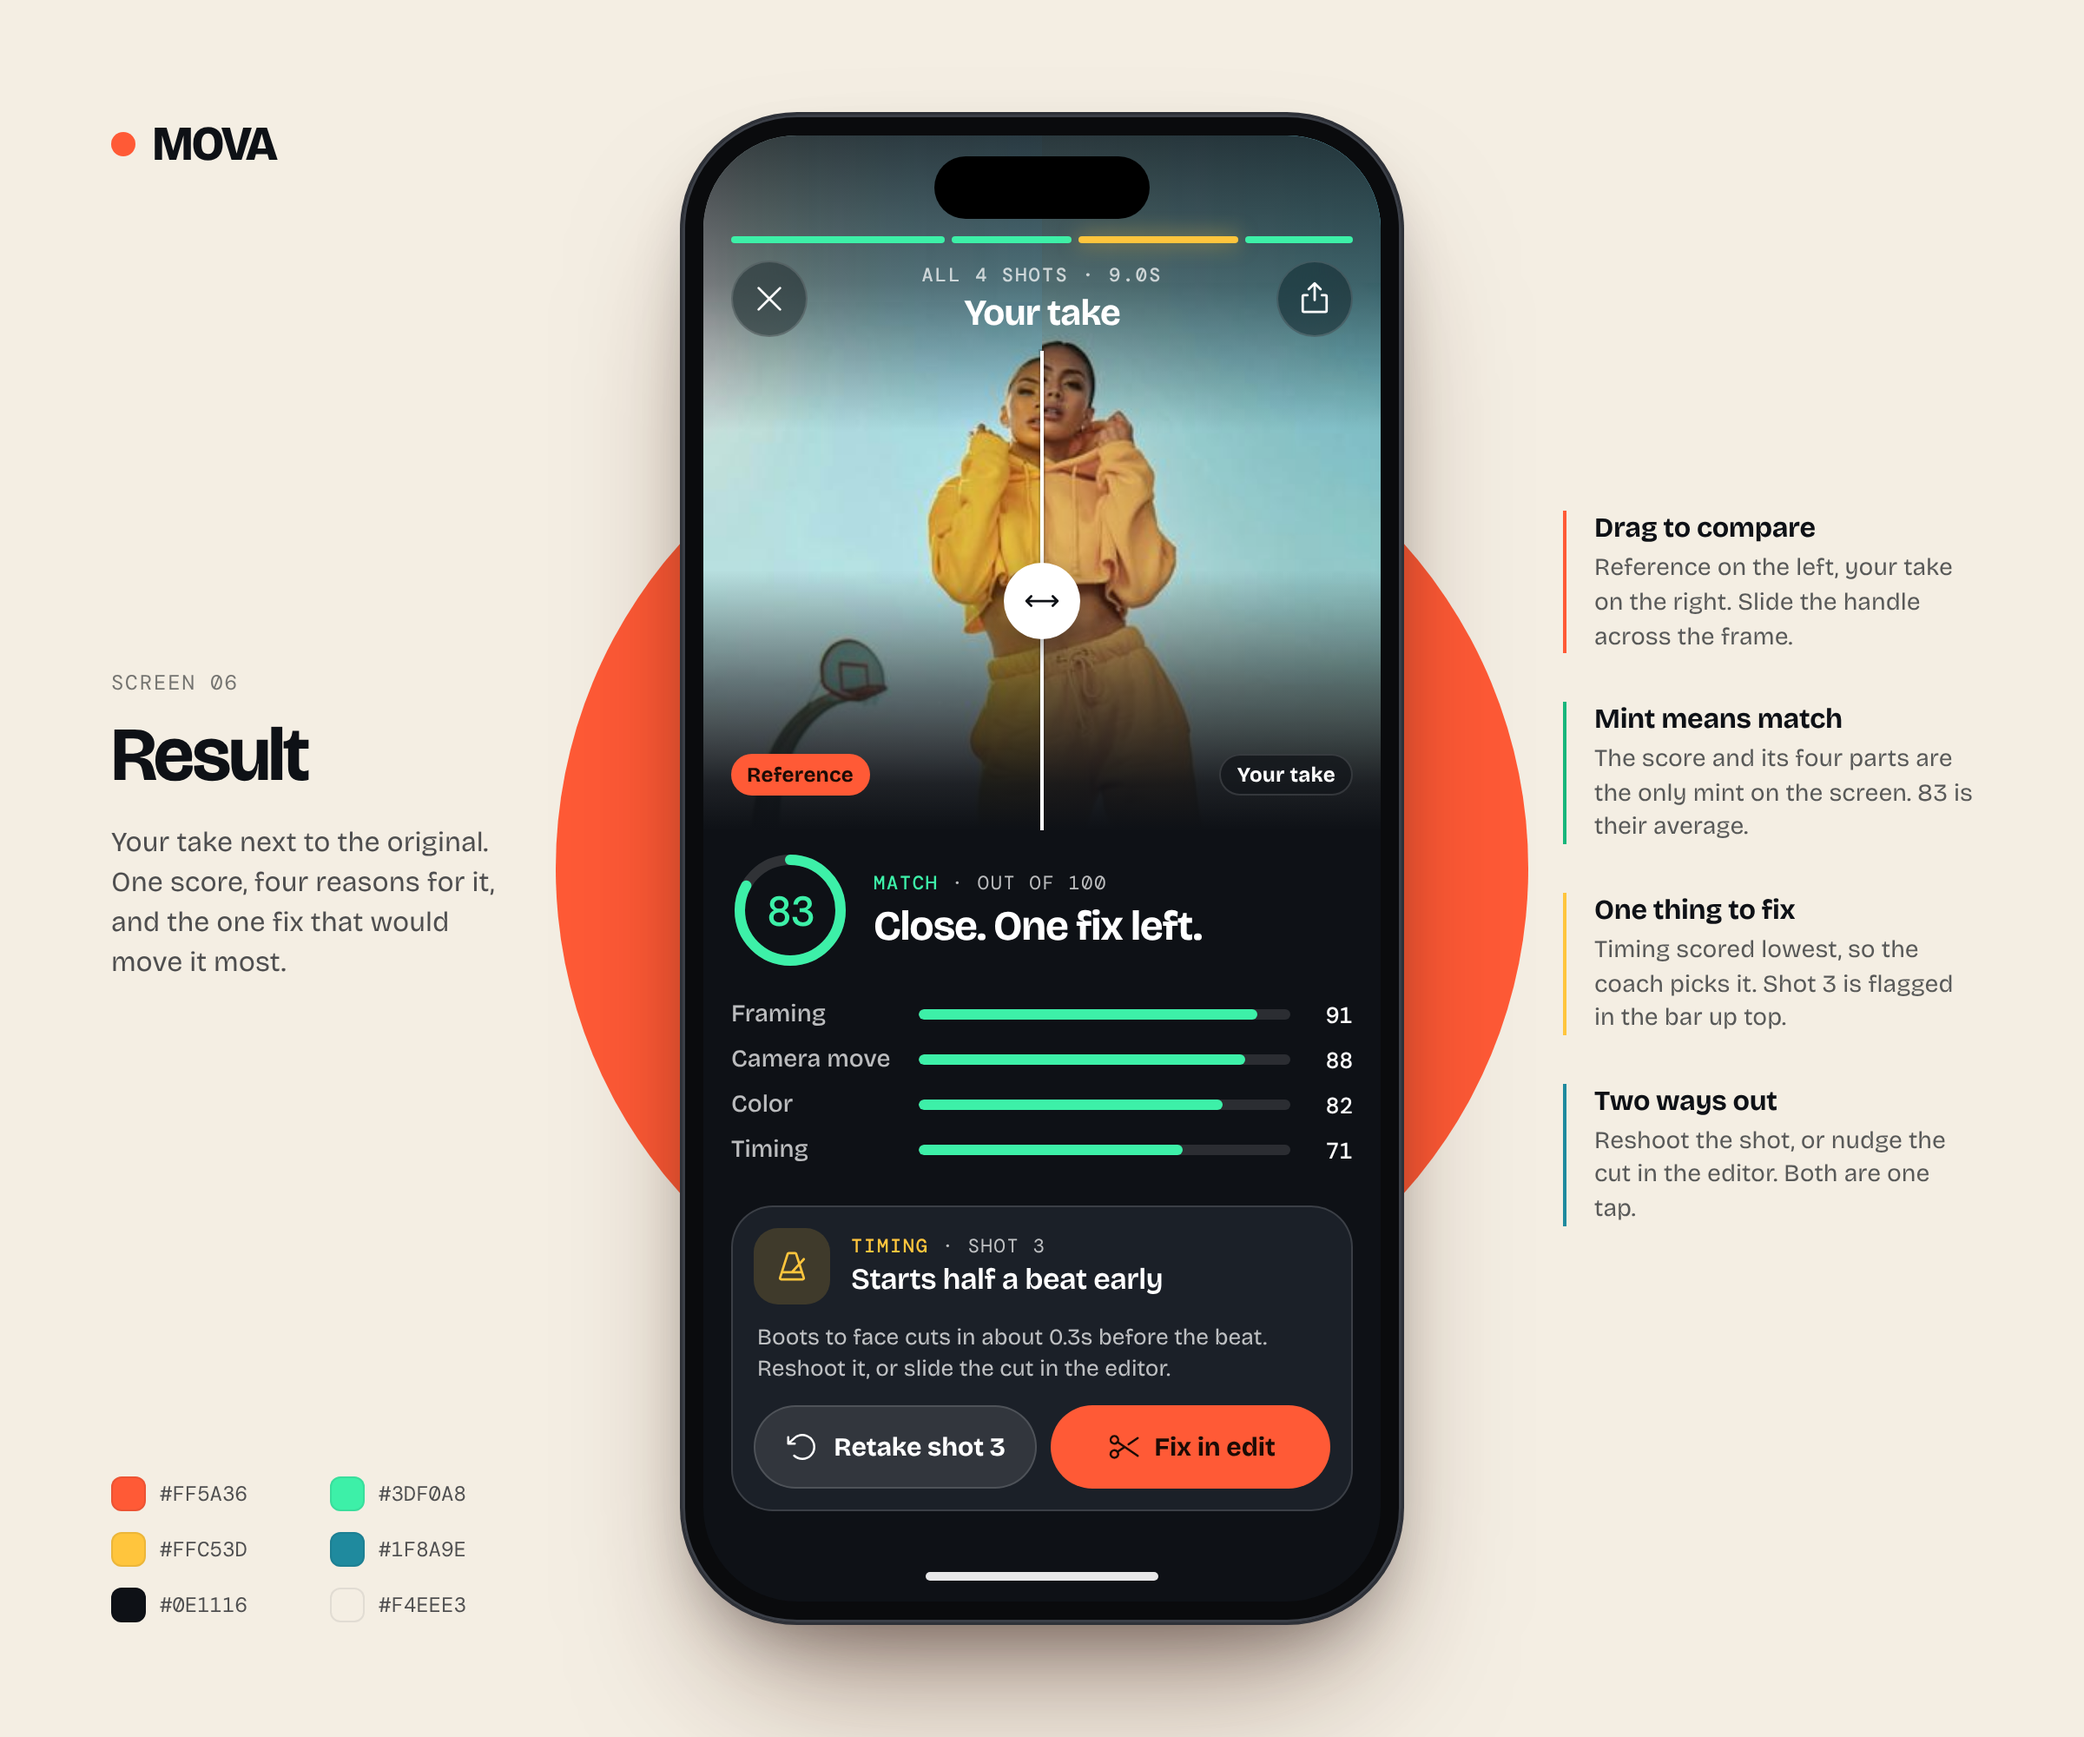
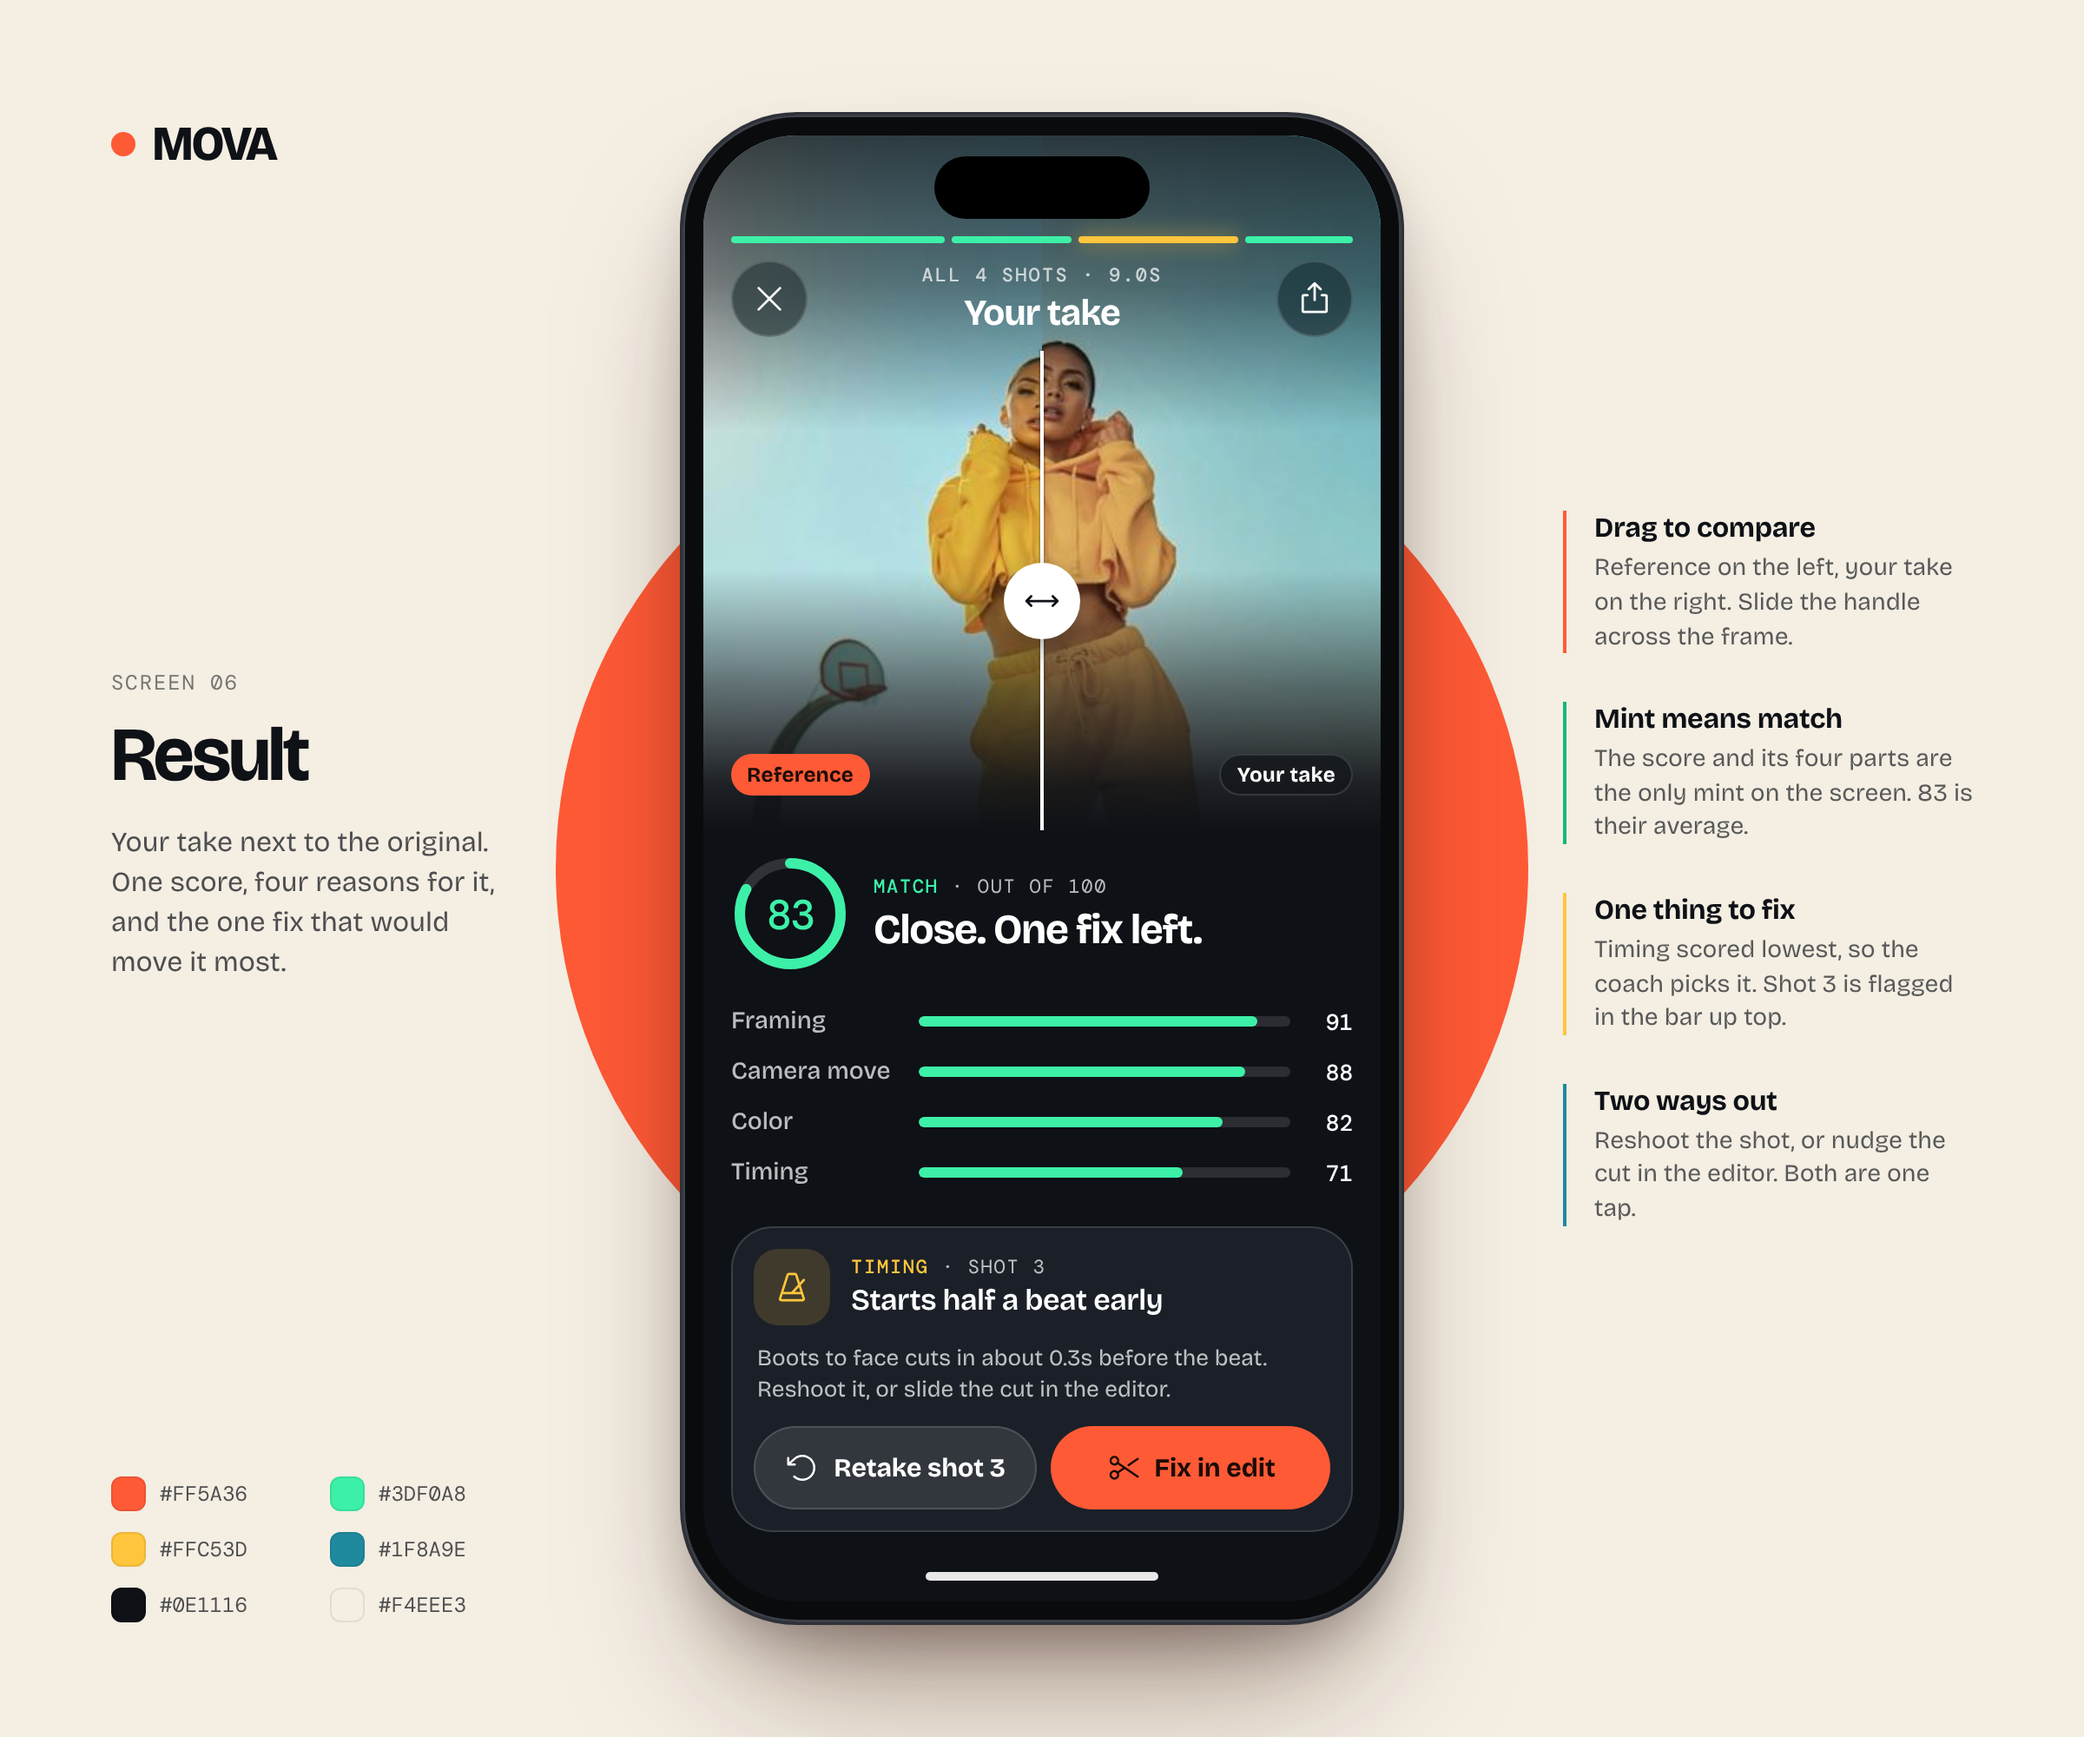
Finalize v5 screens 04-06 and add 9-screen overview
Claude-Session: https://claude.ai/code/session_01VAhaWfWrmtdu8QGFD6ELxJ

Changed region(s): [[0.3438, 0.496, 0.6562, 0.868]]

diff --git a/design/v5/screen-06-result.html b/design/v5/screen-06-result.html
@@ -85,20 +85,20 @@
   .knob svg{width:22px;height:22px;fill:var(--ink);display:block}
   .lab{position:absolute;top:356px;z-index:4}
   .lab.a{left:16px} .lab.b{right:16px}
-  .score{position:absolute;left:16px;right:16px;top:412px;height:68px;display:flex;align-items:center;gap:14px}
+  .score{position:absolute;left:16px;right:16px;top:414px;height:68px;display:flex;align-items:center;gap:14px}
   .ring{position:relative;width:68px;height:68px;flex:none}
   .ring svg{width:68px;height:68px;display:block;transform:rotate(-90deg)}
   .ring span{position:absolute;inset:0;display:grid;place-items:center;font-family:var(--mono);font-weight:500;font-size:24px;letter-spacing:-.04em;color:var(--mint)}
   .kv small{display:block;font-family:var(--mono);font-size:11px;letter-spacing:.08em;text-transform:uppercase;color:var(--w70);line-height:14px;white-space:nowrap}
   .kv small b{color:var(--mint);font-weight:500}
   .kv strong{display:block;font-size:24px;font-weight:700;letter-spacing:-.025em;line-height:28px;margin-top:4px;white-space:nowrap;font-variation-settings:"opsz" 48}
-  .subs{position:absolute;left:16px;right:16px;top:496px;display:flex;flex-direction:column;gap:6px}
+  .subs{position:absolute;left:16px;right:16px;top:500px;display:flex;flex-direction:column;gap:9px}
   .sub{height:20px;display:flex;align-items:center;gap:12px}
   .sub em{font-style:normal;width:96px;font-size:14px;font-weight:500;color:var(--w70);line-height:20px;flex:none}
   .sub div{flex:1;height:6px;border-radius:3px;background:rgba(255,255,255,.12);overflow:hidden}
   .sub div i{display:block;height:6px;border-radius:3px;background:var(--mint)}
   .sub span{width:24px;text-align:right;font-family:var(--mono);font-size:13px;font-weight:500;color:#fff;flex:none}
-  .coach{position:absolute;left:16px;right:16px;top:616px;border-radius:24px;background:var(--ink-2);border:1px solid var(--hair);padding:12px}
+  .coach{position:absolute;left:16px;right:16px;top:628px;border-radius:24px;background:var(--ink-2);border:1px solid var(--hair);padding:12px}
   .coach .top{display:flex;align-items:center;gap:12px}
   .tile{width:44px;height:44px;border-radius:14px;background:rgba(255,197,61,.16);display:grid;place-items:center;flex:none}
   .tile svg{width:22px;height:22px;fill:var(--sun)}

diff --git a/design/v5/screen-04-reference.html b/design/v5/screen-04-reference.html
@@ -127,10 +127,10 @@
 </div>
 
 <div class="col r">
-  <div class="note c"><h3>The clip comes first</h3><p>Half the screen is the reference itself. Play it before you plan anything.</p></div>
+  <div class="note g"><h3>The clip comes first</h3><p>Half the screen is the reference itself. Play it before you plan anything.</p></div>
   <div class="note s"><h3>Cuts you can see</h3><p>The scrubber is already split into the four shots, each as long as it runs.</p></div>
-  <div class="note g"><h3>Found, not decided</h3><p>Every fact is marked as detected. Tap a row to correct what MOVA got wrong.</p></div>
-  <div class="note m"><h3>One way forward</h3><p>A single coral button. Everything else on the screen is for reading.</p></div>
+  <div class="note "><h3>Found, not decided</h3><p>Every fact is marked as detected. Tap a row to correct what MOVA got wrong.</p></div>
+  <div class="note c"><h3>One way forward</h3><p>A single coral button. Everything else on the screen is for reading.</p></div>
 </div>
 
 <div class="phone">

diff --git a/design/v5/screen-05-breakdown.html b/design/v5/screen-05-breakdown.html
@@ -124,7 +124,7 @@
   <div class="note c"><h3>A card per shot</h3><p>Thumbnail, name, framing, move, length. The coral card is the one you shoot next.</p></div>
   <div class="note s"><h3>Cuts on the beat</h3><p>Yellow dots are beats. Coral lines are cuts, and each one sits on a beat.</p></div>
   <div class="note g"><h3>A draft, not a verdict</h3><p>MOVA detects all of this, so it says so. Tap a shot to rename, retime or merge it.</p></div>
-  <div class="note m"><h3>Straight to the camera</h3><p>The button names the shot. One tap and screen 01 opens on Wide approach.</p></div>
+  <div class="note "><h3>Straight to the camera</h3><p>The button names the shot. One tap and screen 01 opens on Wide approach.</p></div>
 </div>
 
 <div class="phone">
